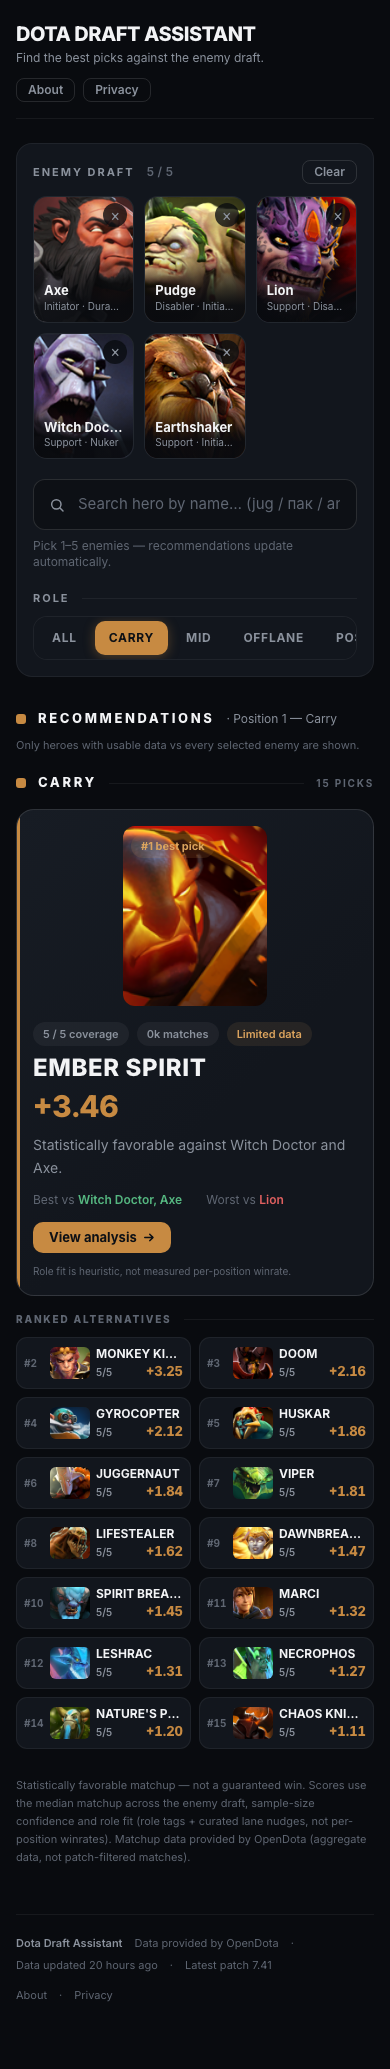
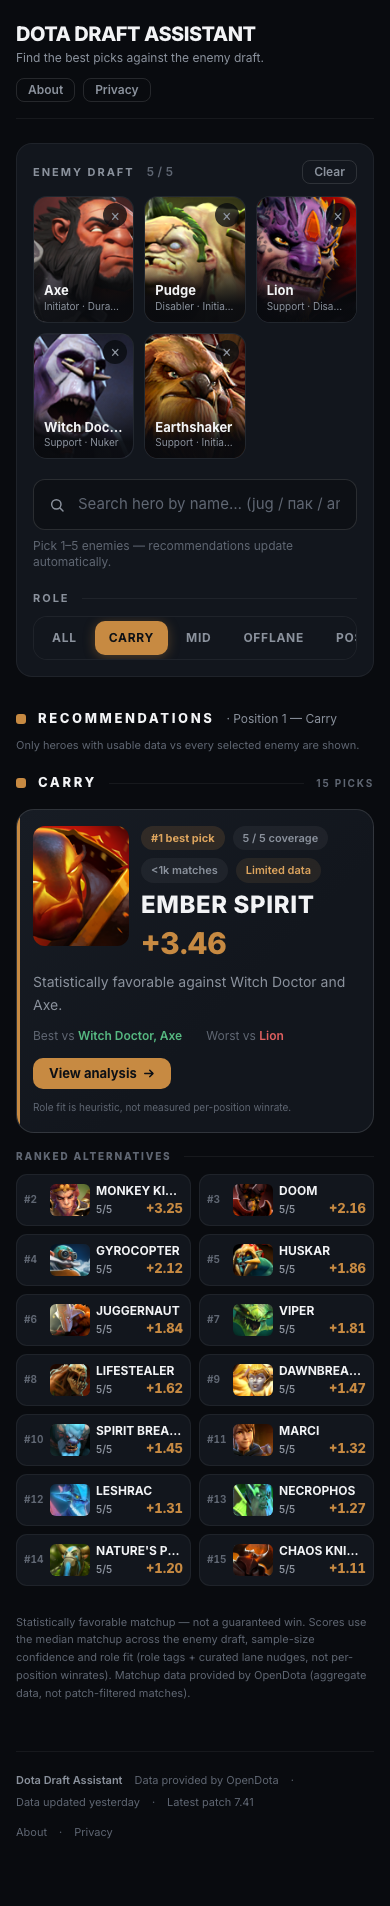
Mobile Best Pick polish: portrait+info side-by-side grid (324px, -150px), formatMatches → '<1k matches'

diff --git a/src/components/CandidateCard.tsx b/src/components/CandidateCard.tsx
@@ -5,6 +5,16 @@ export function scoreText(v: number): string {
   return `${v > 0 ? '+' : ''}${v.toFixed(2)}`;
 }
 
+/** Match-count label for the #1 card badge (Top-15 polish): the old
+ *  `Math.round(avgGames / 1000) + "k"` printed "0k matches" for thin samples.
+ *  <1000 → "<1k"; 1000–999999 → "1k" / "12.4k"; ≥1000000 → "1.2M". */
+export function formatMatches(count: number): string {
+  if (count < 1000) return '<1k';
+  const k = Math.round((count / 1000) * 10) / 10;
+  if (k < 1000) return `${k}k`;
+  return `${Math.round((count / 1_000_000) * 10) / 10}M`;
+}
+
 /** ALL mode (FINAL UX PASS, P1): one compact best-pick card per role —
  *  fast overview, not 5 full ranking sections (page was ~4600px desktop). */
 export function BestPickCard({ c, title, onViewDetails }: {
@@ -50,17 +60,21 @@ export function CandidateCard({ c, rank, heroById, onViewDetails }: {
   const total = c.matchups.length;
   void heroById;
   return (
-    <article className="rec-top fade-up flex flex-col gap-4 p-4 sm:flex-row sm:gap-5 sm:p-5">
-      <div className="relative mx-auto w-36 shrink-0 overflow-hidden rounded-xl sm:mx-0 sm:w-44 lg:w-48">
+    <article className="rec-top fade-up grid grid-cols-[96px_minmax(0,1fr)] gap-x-3 gap-y-2.5 p-4 sm:grid-cols-[176px_minmax(0,1fr)] sm:gap-x-5 sm:p-5 lg:grid-cols-[192px_minmax(0,1fr)]">
+      {/* Portrait column: 96×120 on mobile (recognizable, ~90px wide per UX
+          brief), 176/192 — unchanged desktop composition. */}
+      <div className="relative col-start-1 row-start-1 self-start overflow-hidden rounded-xl sm:row-span-2">
         <div className="aspect-4/5 w-full">
           <HeroPortrait hero={c.hero} fill variant="large" />
         </div>
-        <span className="badge badge-accent absolute left-2 top-2">#{rank} best pick</span>
+        <span className="badge badge-accent absolute left-2 top-2 hidden sm:inline-flex">#{rank} best pick</span>
       </div>
-      <div className="min-w-0 flex-1">
+      {/* Row 1 (mobile): key info beside the portrait instead of below it. */}
+      <div className="col-start-2 row-start-1 min-w-0">
         <div className="flex flex-wrap items-center gap-2">
+          <span className="badge badge-accent sm:hidden">#{rank} best pick</span>
           <span className="badge">{coverage} / {total} coverage</span>
-          <span className="badge">{Math.round(c.avgGames / 1000).toLocaleString()}k matches</span>
+          <span className="badge">{formatMatches(c.avgGames)} matches</span>
           {c.lowData && <span className="badge badge-warn">Limited data</span>}
         </div>
         <h4 className="mt-2.5 text-2xl font-extrabold uppercase leading-none tracking-wide text-ink sm:text-3xl">
@@ -69,7 +83,11 @@ export function CandidateCard({ c, rank, heroById, onViewDetails }: {
         <div className="mt-2 text-3xl font-extrabold tabular-nums text-accent sm:text-4xl">
           {scoreText(c.finalScore)}
         </div>
-        <p className="mt-2.5 max-w-xl text-sm leading-relaxed text-muted">{c.explanation[0]}</p>
+      </div>
+      {/* Row 2: full card width on mobile, right column on sm+ (grid gap keeps
+          the same 10px rhythm the old mt-2.5 stack had on desktop). */}
+      <div className="col-span-2 row-start-2 min-w-0 sm:col-span-1 sm:col-start-2">
+        <p className="max-w-xl text-sm leading-relaxed text-muted">{c.explanation[0]}</p>
         <div className="mt-3 flex flex-wrap gap-x-6 gap-y-1 text-xs">
           {c.bestAgainst.length > 0 && (
             <span className="text-dim">Best vs <span className="font-semibold text-pos">{c.bestAgainst.join(', ')}</span></span>

diff --git a/src/components/CandidateCard.test.ts b/src/components/CandidateCard.test.ts
@@ -1,0 +1,24 @@
+import { describe, expect, it } from 'vitest';
+import { formatMatches } from './CandidateCard';
+
+describe('formatMatches (Top-15 polish: no more "0k matches")', () => {
+  it('renders thin samples as "<1k"', () => {
+    expect(formatMatches(0)).toBe('<1k');
+    expect(formatMatches(42)).toBe('<1k');
+    expect(formatMatches(999)).toBe('<1k');
+  });
+
+  it('renders thousands with one decimal only when needed', () => {
+    expect(formatMatches(1000)).toBe('1k');
+    expect(formatMatches(1240)).toBe('1.2k');
+    expect(formatMatches(12400)).toBe('12.4k');
+    expect(formatMatches(999499)).toBe('999.5k');
+  });
+
+  it('rolls over to millions instead of printing "1000k"', () => {
+    expect(formatMatches(999999)).toBe('1M');
+    expect(formatMatches(1000000)).toBe('1M');
+    expect(formatMatches(1200000)).toBe('1.2M');
+    expect(formatMatches(12400000)).toBe('12.4M');
+  });
+});
